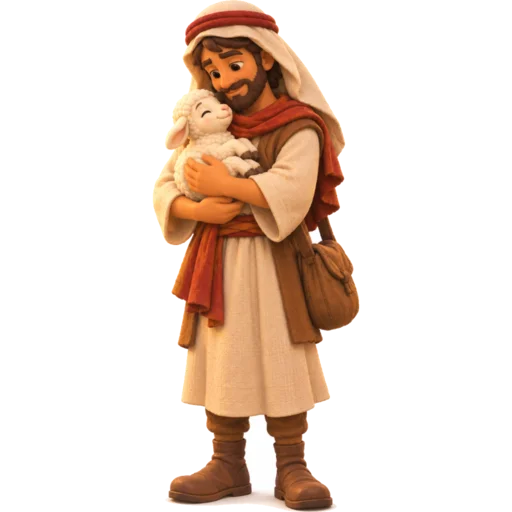
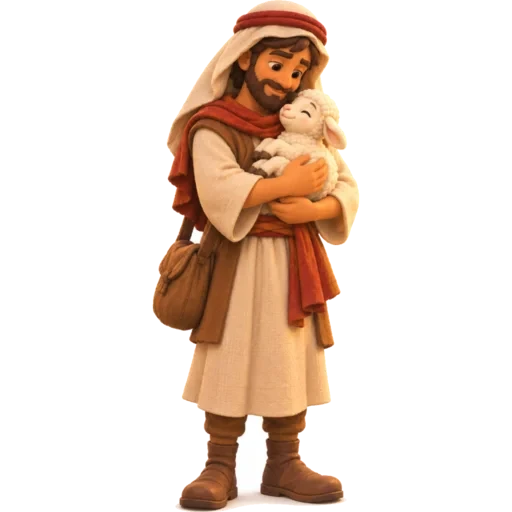
fix(art): 角色圖方向再巡一次——14 張（11 張是 10/27 翻錯的還原原檔；賊、偷羊人頭像與抱羊羔立繪另翻）；我方朝右、敵方朝左
Claude-Session: https://claude.ai/code/session_01SYPuyoVBYFpBbWmvumijvq

Changed region(s): [[0.2812, 0.0, 0.7188, 1.0]]

diff --git a/docs/art-asset-plan-2026-10-26.md b/docs/art-asset-plan-2026-10-26.md
@@ -108,3 +108,5 @@
 - 2026-10-27 **原圖搬出 repo**：`img/char/`（112 張 1024px PNG、153MB）從 git 拿掉並加進 .gitignore，備份放 `~/glc-work/sheepfold-char-src/`（上面各條寫的 `img/char/<key>-*-src.png` 都改到那裡找）。遊戲只用 `img/ico/*.webp`（3.2MB），不受影響。歷史 commit 裡的舊原圖還在，clone 仍會拖到；要清歷史得重寫並強推，另案決定。
 
 - 2026-10-28 **同 emoji 的敵人分開立繪（分支 feat/enemy-variants）**：快狼、領頭狼、豺狼原本跟狼共用 🐺 那套，鷙鳥跟大鷹共用 🦅。請小居生 4 角色 × 3 套共 12 張（全身→`c-`256／`l-`512、Q 版→`q-`、頭像→`h-`），參考圖附狼／鷹原圖當風格錨、Q 版與頭像再附自己的全身圖；全部一次就對、都朝左、沒翻圖。程式：data.js 這四個敵人加 `img: 'fastwolf' | 'alphawolf' | 'jackal' | 'bird'`，index.html `ICON_IMG`／`CHAR_KEYS` 加四個鍵、`icoKey(d) = d.img || d.ico` 統一取圖、`icoImg(e, alt)` 文字備援仍是 emoji，render.js 棋盤與鷹影同樣走 `img || ico`、`iconText` 給 Pixi 文字備援。去背坑：頭像的肩膀貼著下緣，floodfill 不能從下緣中點起算（會把身體吃掉一塊），下角只在近白時當種子（腳本 cuthead.sh）。原圖 12 張在 `~/glc-work/sheepfold-char-src/`。
+
+- 2026-10-28 晚 **方向再巡一次（James 真機：看門的、弓箭手還是反的）**：把 96 張角色圖（32 個鍵 × h／q／l）放大到 256–400px 逐張看，改了 14 張。其中 11 張是 10/27 那次翻錯方向的（頭像：弓箭手、抱羊羔、看門的、巡夜人、拋石手、投石隊；立繪：看門的、纏裹、豹、巡夜人；Q 版：抱羊羔）——用 `magick compare` 驗過「現在的圖翻回去＝10/27 之前的原檔」（RMSE < 1%），所以直接 `git checkout 719cec1^` 還原原檔，不再二次壓縮。另外 3 張是之前沒動過但本來就反的：賊、偷羊人的頭像（敵人卻看向右）與抱羊羔的立繪。教訓：10/27 是在 140px 小圖上判斷 3/4 側臉，鼻尖與遠側臉頰在那個尺寸看不清；這次改成每張 ≥256px、拿鼻尖方向當依據，拿不準的再放大到 400px 看一次。
